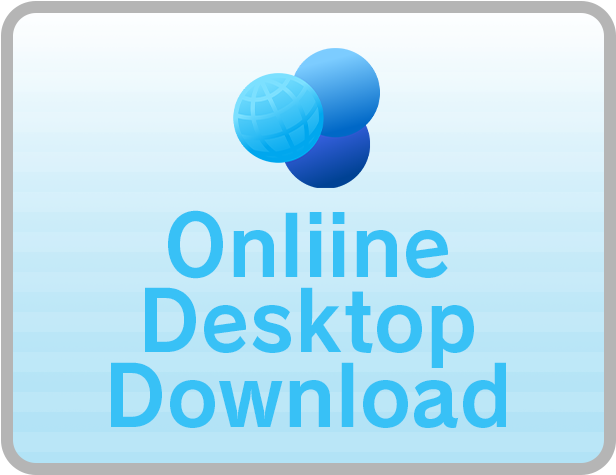
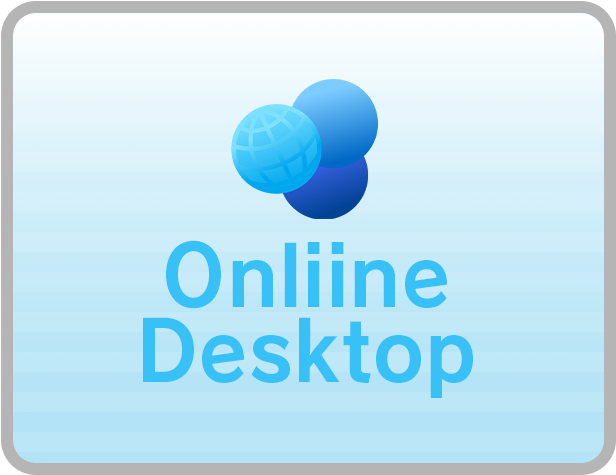
last one for the night

Changed region(s): [[0.1542, 0.0884, 0.8328, 0.9137]]

diff --git a/js/channels.js b/js/channels.js
@@ -18,24 +18,33 @@ function addChannel(id, title, assets, channelart, target, videoformat) {
     function def_cmd() {
         console.log(`Defaults: addChannel('id', 'Title', 'path-to-assets[/]', 'path-to-channelart[/]', [optional: 'target-to-html', 'video-format (recommend webp!)'] )`);
     }
+    function logErr(msg, defcmd) {
+        if (defcmd == true) def_cmd();
+        console.error(`addChannel: ${msg}`);
+        return { err: true, msg: msg };
+    }
     if (!id) {
-        console.error(`addChannel: You must supply a id!`)
-        def_cmd();
+        let msg = `You must supply a id!`;
+        return logErr(msg, true);
+    // Also check for each channel that the users has, make sure the "id" isn't taken.
+    } else if (userChannels.find((element) => element.id === id)) {
+        let msg = `You already have a channel with that id!`;
+        return logErr(msg);
     } else if (!title) {
-        console.error(`addChannel: You must supply a title!`)
-        def_cmd();
+        let msg = `You must supply a title!`;
+        return logErr(msg, true);
     } else if (!assets) {
-        console.error(`addChannel: You must supply the assets directory! (Don't include the id with this var)`)
-        def_cmd();
+        let msg = `You must supply the assets directory! (Don't include the id with this var)`;
+        return logErr(msg, true);
     } else if (!assets.endsWith('/')) {
-        console.error(`addChannel: Your assets folder doesn't end with a "/"! Please fix that!`)
-        def_cmd();
+        let msg = `Your assets folder doesn't end with a "/"! Please fix that!`;
+        return logErr(msg, true);
     } else if (!channelart) {
-        console.error(`addChannel: You must supply the channelart directory! (Don't include the id with this var)`)
-        def_cmd();
+        let msg = `You must supply the channelart directory! (Don't include the id with this var)`;
+        return logErr(msg, true);
     } else if (!channelart.endsWith('/')) {
-        console.error(`addChannel: Your channelart folder doesn't end with a "/"! Please fix that!`)
-        def_cmd();
+        let msg = `Your channelart folder doesn't end with a "/"! Please fix that!`;
+        return logErr(msg, true);
 
     // Pass!!!!!!
     } else {

diff --git a/index.html b/index.html
@@ -26,6 +26,8 @@
     <meta name="apple-mobile-web-app-status-bar" content="#222222" />
 
     <script>
+        startDateTime();
+        
         var currentMenuPage = 1;
         var info,
             mainchannelsset;
@@ -120,7 +122,8 @@
                             assets: "assets/channels/",
                             channelart: "channelart/",
                             id: "electron",
-                            title: "Download the Desktop App"
+                            title: "Onliine Desktop",
+                            target: "https://github.com/ktg5/onliine-electron/releases/latest"
                         });
 
                         document.querySelector('[data-id="electron"]').setAttribute('data-special', true)

diff --git a/js/script.js b/js/script.js
@@ -20,7 +20,9 @@ function showDateTime() {
     dateDiv.innerText = `${today}`;
     dateDiary.innerText = `${today}`;
 }
-setInterval(showDateTime, 1000);
+function startDateTime() {
+    setInterval(showDateTime, 1000);
+}
 
 // Disable splash
 function disableSplash() {
